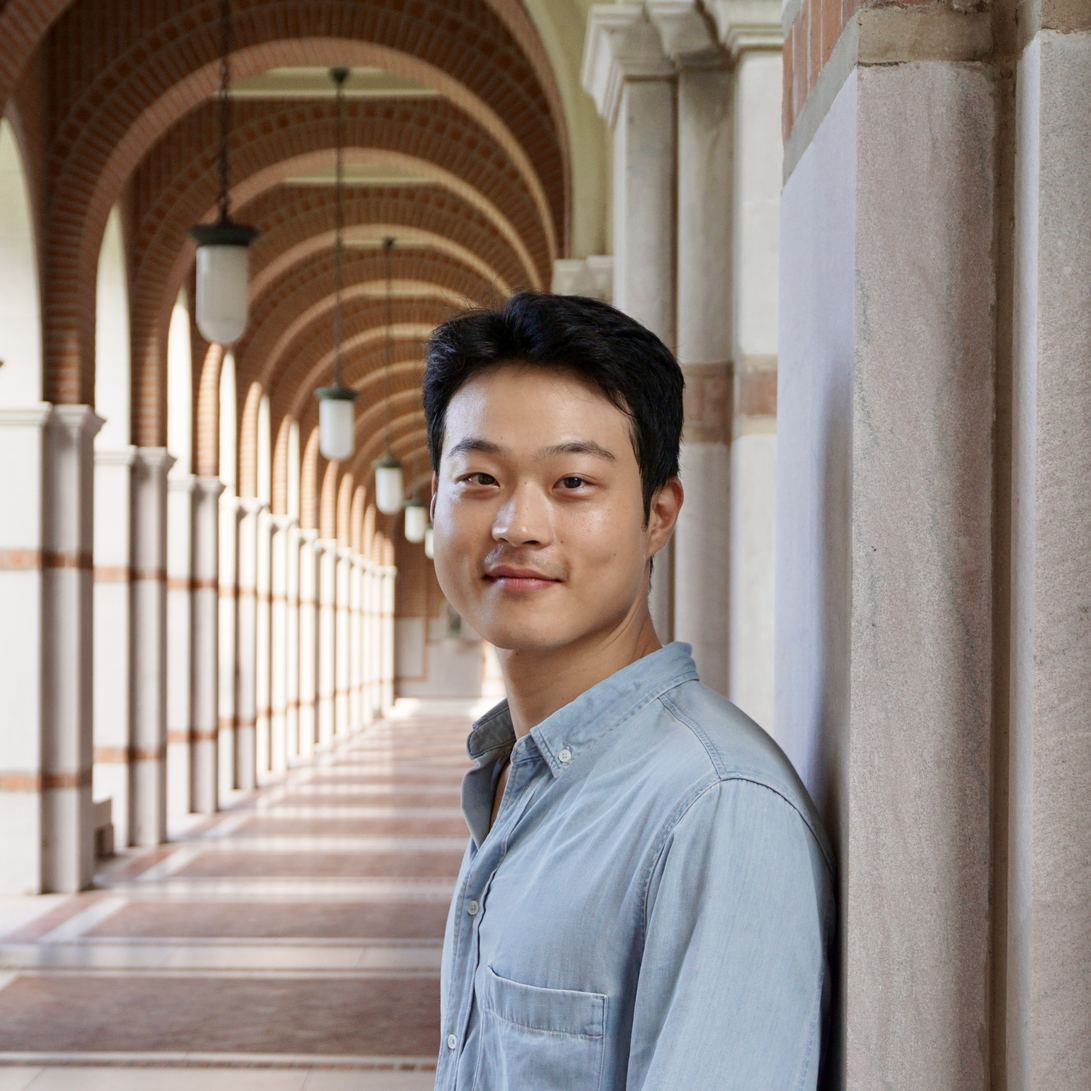
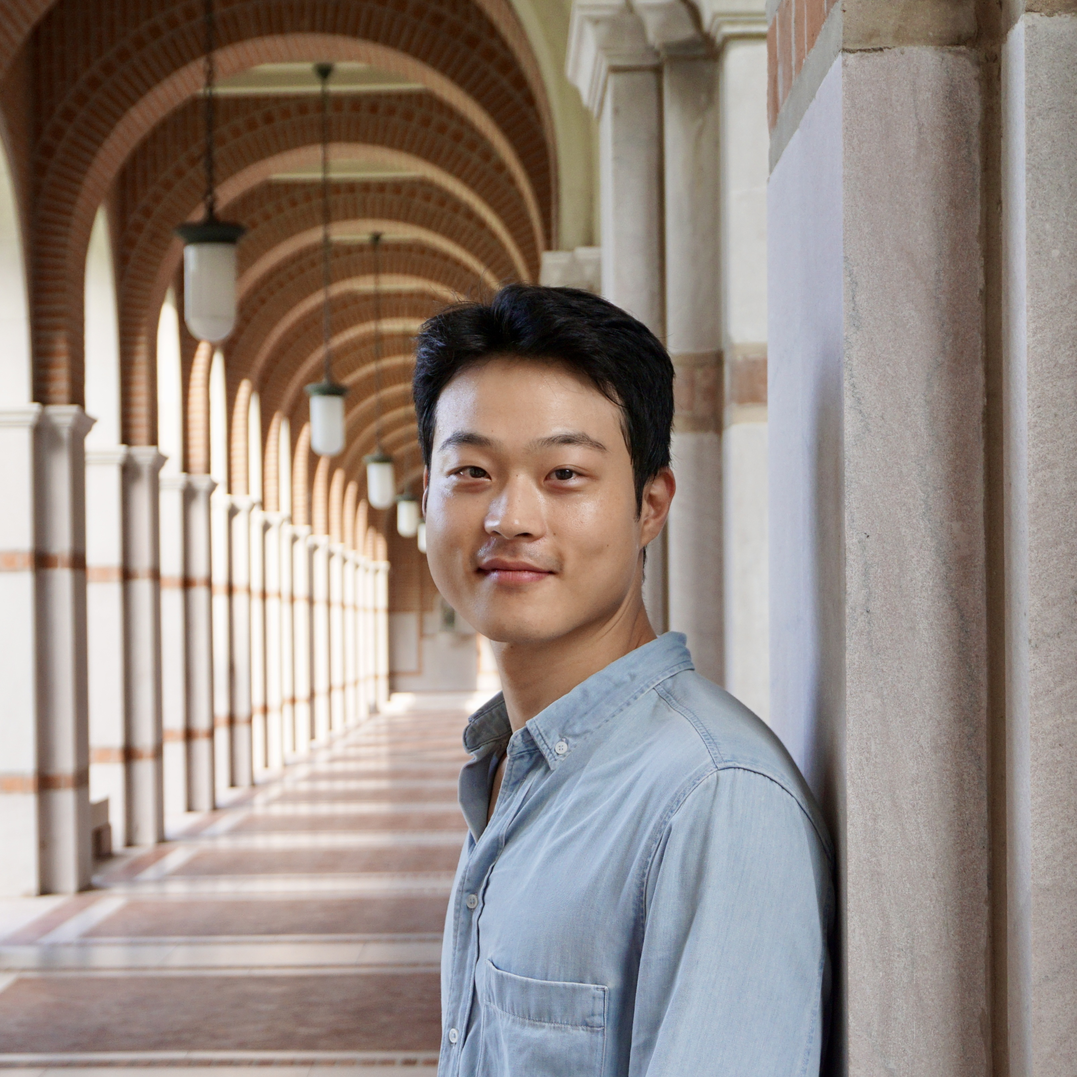
change profile pic

diff --git a/author/j.-lyle-kim/index.html b/author/j.-lyle-kim/index.html
@@ -283,7 +283,7 @@
   <meta property="og:description" content="Ph.D. student in Computer Science"><meta property="og:image" content="https://jlylekim.github.io/images/icon_hu6a253511a905c4c58ef48adc8d74e746_25674_512x512_fill_lanczos_center_2.png">
   <meta property="twitter:image" content="https://jlylekim.github.io/images/icon_hu6a253511a905c4c58ef48adc8d74e746_25674_512x512_fill_lanczos_center_2.png"><meta property="og:locale" content="en-us">
   
-    
+    <meta property="og:updated_time" content="2022-04-01T00:00:00&#43;00:00">
   
 
   
@@ -586,207 +586,41 @@
 
 
 
+<div class="universal-wrapper pt-3">
+  <h1>J. Lyle Kim</h1>
+</div>
+
 
 <section id="profile-page" class="pt-5">
   <div class="container">
     
     
-      
-      
-      
-      
 
-
-
-
-  
-
-
-
-
-
-
-
-
-
-
-<div class="row">
-  <div class="col-12 col-lg-4">
-    <div id="profile">
-
-      
-      
-      <img class="avatar avatar-square" src="/author/j.-lyle-kim/avatar_hu1dd1eaa3cef96c687ed789f886779ffa_2561692_270x270_fill_q90_lanczos_center.jpg" alt="J. Lyle Kim">
-      
-
-      <div class="portrait-title">
-        <h2>J. Lyle Kim</h2>
-        <h3>Ph.D. student in Computer Science</h3>
-
-        
-        <h3>
-          <a href="https://www.rice.edu/" target="_blank" rel="noopener">
-          <span>Rice University</span>
-          </a>
-        </h3>
-        
-      </div>
-
-      <ul class="network-icon" aria-hidden="true">
-        
-        
-        
-        
-          
-        
-        
-        
-        
+    
+    
+    
+    <div class="article-widget content-widget-hr">
+      <h3>Latest</h3>
+      <ul>
         
         <li>
-          <a href="mailto:jlylekim@rice.edu" >
-            <i class="fas fa-envelope big-icon"></i>
-          </a>
+          <a href="/blog/sppam/">Convergence and stability of the stochastic proximal point algorithm with momentum</a>
         </li>
         
-        
-        
-        
-          
-        
-        
-        
-        
-        
-          
-        
         <li>
-          <a href="https://twitter.com/jlylekim" target="_blank" rel="noopener">
-            <i class="fab fa-twitter big-icon"></i>
-          </a>
+          <a href="/blog/acc-qst/">Fast quantum state tomography via accelerated non-convex programming</a>
         </li>
         
-        
-        
-        
-          
-        
-        
-        
-        
-        
-          
-        
         <li>
-          <a href="https://scholar.google.com/citations?user=Ku197mP8hmUC&amp;hl=en&amp;authuser=1" target="_blank" rel="noopener">
-            <i class="fas fa-graduation-cap big-icon"></i>
-          </a>
+          <a href="/blog/quantum-mechanics-2/">Basics of quantum mechanics 2</a>
         </li>
         
-        
-        
-        
-          
-        
-        
-        
-        
-        
-          
-        
         <li>
-          <a href="https://github.com/jlylekim" target="_blank" rel="noopener">
-            <i class="fab fa-github big-icon"></i>
-          </a>
-        </li>
-        
-        
-        
-        
-          
-        
-        
-        
-        
-        
-          
-        
-        <li>
-          <a href="https://www.linkedin.com/in/jlylekim/" target="_blank" rel="noopener">
-            <i class="fab fa-linkedin big-icon"></i>
-          </a>
+          <a href="/blog/quantum-mechanics-1/">Basics of quantum mechanics 1</a>
         </li>
         
       </ul>
-
     </div>
-  </div>
-  <div class="col-12 col-lg-8">
-
-    
-    
-
-    <p>My legal name is Junhyung Kim (김준형), but I usually go by Lyle. I am a fourth year Ph.D. student in <a href="https://csweb.rice.edu" target="_blank" rel="noopener">Computer Science</a> at <a href="https://www.rice.edu" target="_blank" rel="noopener">Rice University</a>, advised by <a href="https://akyrillidis.github.io/about/" target="_blank" rel="noopener">Prof. Anastasios Kyrillidis</a>. I also work closely with <a href="https://cauribe.rice.edu/" target="_blank" rel="noopener">Prof. César A. Uribe</a>.</p>
-<p>Before joining Rice, I was a research professional at the <a href="https://www.chicagobooth.edu/" target="_blank" rel="noopener">University of Chicago Booth School of Business</a> supervised by <a href="https://www.ptoulis.com/" target="_blank" rel="noopener">Prof. Panos Toulis</a>.</p>
-<!-- and [Prof. Sanjog Misra](http://www.sanjogmisra.com/). -->
-<p>I received bachelor&rsquo;s degrees in Mathematics and Statistics at the <a href="https://www.uchicago.edu/" target="_blank" rel="noopener">University of Chicago</a> in 2017. During my senior year at the college, I also worked with <a href="http://www.stat.cmu.edu/~mkuusela/" target="_blank" rel="noopener">Prof. Mikael Kuusela</a> under the supervision of <a href="https://galton.uchicago.edu/~stein/" target="_blank" rel="noopener">Prof. Michael L. Stein</a>.</p>
-<p>In summer 2022, I worked at <a href="https://ai.facebook.com/" target="_blank" rel="noopener">Meta (Fundamental AI Research)</a> as a research intern under the supervision of <a href="https://www.aarondefazio.com/" target="_blank" rel="noopener">Dr. Aaron Defazio</a>.</p>
-<p>
-  <i class="fas fa-download  pr-1 fa-fw"></i> Here is my <a href="/files/cv.pdf" target="_blank">CV</a>.</p>
-
-
-    <div class="row">
-
-      
-      <div class="col-md-5">
-        <h3>Interests</h3>
-        <ul class="ul-interests">
-          
-          <li>Optimization</li>
-          
-          <li>Distributed optimization</li>
-          
-          <li>Machine learning</li>
-          
-          <li>Quantum computing</li>
-          
-        </ul>
-      </div>
-      
-
-      
-      <div class="col-md-7">
-        <h3>Education</h3>
-        <ul class="ul-edu fa-ul">
-          
-          <li>
-            <i class="fa-li fas fa-graduation-cap"></i>
-            <div class="description">
-              <p class="course">Ph.D. in Computer Science, 2019 - present</p>
-              <p class="institution">Rice University</p>
-            </div>
-          </li>
-          
-          <li>
-            <i class="fa-li fas fa-graduation-cap"></i>
-            <div class="description">
-              <p class="course">B.A. in Mathematics; B.A. in Statistics, 2017</p>
-              <p class="institution">University of Chicago</p>
-            </div>
-          </li>
-          
-        </ul>
-      </div>
-      
-
-    </div>
-  </div>
-</div>
-
-    
-
-    
-    
     
   </div>
 </section>

diff --git a/news/news/index.html b/news/news/index.html
@@ -730,7 +730,7 @@
   <div class="media author-card content-widget-hr">
     
       
-      <a href="https://jlylekim.github.io/"><img class="avatar mr-3 avatar-square" src="/author/j.-lyle-kim/avatar_hu1dd1eaa3cef96c687ed789f886779ffa_2561692_270x270_fill_q90_lanczos_center.jpg" alt="J. Lyle Kim"></a>
+      <a href="https://jlylekim.github.io/"><img class="avatar mr-3 avatar-square" src="/author/j.-lyle-kim/avatar_hu1dd1eaa3cef96c687ed789f886779ffa_2493919_270x270_fill_q90_lanczos_center.jpg" alt="J. Lyle Kim"></a>
     
 
     <div class="media-body">

diff --git a/project/external-project/index.html b/project/external-project/index.html
@@ -802,7 +802,7 @@
   <div class="media author-card content-widget-hr">
     
       
-      <a href="https://jlylekim.github.io/"><img class="avatar mr-3 avatar-square" src="/author/j.-lyle-kim/avatar_hu1dd1eaa3cef96c687ed789f886779ffa_2561692_270x270_fill_q90_lanczos_center.jpg" alt="J. Lyle Kim"></a>
+      <a href="https://jlylekim.github.io/"><img class="avatar mr-3 avatar-square" src="/author/j.-lyle-kim/avatar_hu1dd1eaa3cef96c687ed789f886779ffa_2493919_270x270_fill_q90_lanczos_center.jpg" alt="J. Lyle Kim"></a>
     
 
     <div class="media-body">

diff --git a/project/internal-project/index.html b/project/internal-project/index.html
@@ -825,7 +825,7 @@
   <div class="media author-card content-widget-hr">
     
       
-      <a href="https://jlylekim.github.io/"><img class="avatar mr-3 avatar-square" src="/author/j.-lyle-kim/avatar_hu1dd1eaa3cef96c687ed789f886779ffa_2561692_270x270_fill_q90_lanczos_center.jpg" alt="J. Lyle Kim"></a>
+      <a href="https://jlylekim.github.io/"><img class="avatar mr-3 avatar-square" src="/author/j.-lyle-kim/avatar_hu1dd1eaa3cef96c687ed789f886779ffa_2493919_270x270_fill_q90_lanczos_center.jpg" alt="J. Lyle Kim"></a>
     
 
     <div class="media-body">

diff --git a/talk/example/index.html b/talk/example/index.html
@@ -885,7 +885,7 @@
   <div class="media author-card content-widget-hr">
     
       
-      <a href="https://jlylekim.github.io/"><img class="avatar mr-3 avatar-square" src="/author/j.-lyle-kim/avatar_hu1dd1eaa3cef96c687ed789f886779ffa_2561692_270x270_fill_q90_lanczos_center.jpg" alt="J. Lyle Kim"></a>
+      <a href="https://jlylekim.github.io/"><img class="avatar mr-3 avatar-square" src="/author/j.-lyle-kim/avatar_hu1dd1eaa3cef96c687ed789f886779ffa_2493919_270x270_fill_q90_lanczos_center.jpg" alt="J. Lyle Kim"></a>
     
 
     <div class="media-body">

diff --git a/index.html b/index.html
@@ -687,7 +687,7 @@
 
       
       
-      <img class="avatar avatar-square" src="/author/j.-lyle-kim/avatar_hu1dd1eaa3cef96c687ed789f886779ffa_2561692_270x270_fill_q90_lanczos_center.jpg" alt="J. Lyle Kim">
+      <img class="avatar avatar-square" src="/author/j.-lyle-kim/avatar_hu1dd1eaa3cef96c687ed789f886779ffa_2493919_270x270_fill_q90_lanczos_center.jpg" alt="J. Lyle Kim">
       
 
       <div class="portrait-title">
